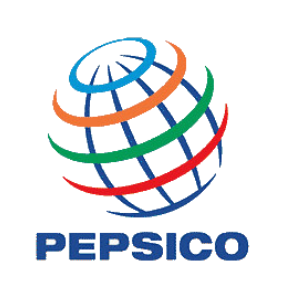
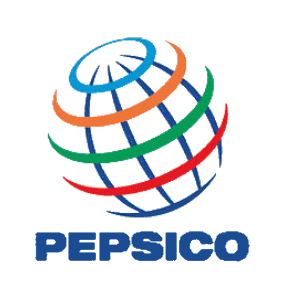
100%

Changed region(s): [[0.12, 0.75, 0.84, 0.87]]

diff --git a/lib/pages/home_page.dart b/lib/pages/home_page.dart
@@ -1,7 +1,7 @@
 import 'package:flutter/material.dart';
-import 'package:flutter_bloc/model/marca_model.dart';
-import 'package:flutter_bloc/model/pessoa_model.dart';
-import '../widgets/thumb_widget.dart';
+import '../model/meu_bloc.dart';
+import '../model/marca_model.dart';
+import '../widgets/thumb_grid_widget.dart';
 
 class HomePage extends StatefulWidget {
   @override
@@ -10,6 +10,8 @@ class HomePage extends StatefulWidget {
 
 class _HomePageState extends State<HomePage> {
 
+  MeuBlocModel bloc = MeuBlocModel();
+  int total = 0;
 //  PessoaModel pessoa = new PessoaModel();
 //  List<PessoaModel> _lista;
   MarcaModel marca = new MarcaModel();
@@ -25,42 +27,24 @@ class _HomePageState extends State<HomePage> {
     _lista = marca.buscarLista;
   }
 
-
   @override
   Widget build(BuildContext context) {
-    return Scaffold(
-      appBar: AppBar(
-        title: Text("HOME"),
-      ),
-      body: ListView.builder(
-              itemCount: _lista.length,
-              itemBuilder: (BuildContext context, int index) {
-                return _card(_lista[index]);
-              },
-          ),
-    );
-  }
-
-  _card(objeto){
-    return Card(
-      child: Padding(
-        padding: EdgeInsets.all(5),
-          child: ListTile(
-            title: Text(objeto.nome),
-            leading: CircleAvatar(
-              radius: 30,
-              child: Padding(
-                padding: EdgeInsets.all(5.0),
-                child: FittedBox(
-                  child: Image(image: AssetImage("assets/imagens/${objeto.imagem}"),),
-                ),
-              ),
+    return StreamBuilder(
+        stream: bloc.output,
+        builder: (context, snapshot) {
+          return Scaffold(
+            appBar: AppBar(
+              title: Text("HOME - ${bloc.total}"),
             ),
-            subtitle: Text("US\$ ${objeto.fortuna.toString()} bilhões"),
-          ),
-      ),
-
+            body: GridView.builder(
+              gridDelegate: new SliverGridDelegateWithFixedCrossAxisCount(crossAxisCount:  3),
+              itemCount: _lista.length,
+              itemBuilder: (context, index) {
+                return ThumbGrid( objeto: _lista[index], bloc: bloc,);
+              },
+            ),
+          );
+        },
     );
   }
-
 }

diff --git a/lib/widgets/thumb_grid_widget.dart b/lib/widgets/thumb_grid_widget.dart
@@ -1,0 +1,66 @@
+import 'package:flutter/material.dart';
+import 'package:flutter_bloc/model/marca_model.dart';
+import 'package:flutter_bloc/model/meu_bloc.dart';
+
+
+class ThumbGrid extends StatefulWidget {
+
+  MarcaModel objeto;
+  MeuBlocModel bloc = MeuBlocModel();
+  ThumbGrid({this.objeto , this.bloc});
+
+  @override
+  _ThumbGridState createState() => _ThumbGridState();
+}
+
+class _ThumbGridState extends State<ThumbGrid> {
+
+  bool _selecionado = false;
+
+
+  @override
+  Widget build(BuildContext context) {
+
+    return GestureDetector(
+      child: Padding(
+        padding: EdgeInsets.all(7),
+        child: Container(
+          decoration: new BoxDecoration(
+            color: ( _selecionado ) ? Colors.green : Colors.white ,
+          ),
+          child: Column(
+            crossAxisAlignment: CrossAxisAlignment.center,
+            mainAxisAlignment: MainAxisAlignment.center,
+            children: [
+              CircleAvatar(
+                radius: 30,
+                child: Padding(
+                  padding: EdgeInsets.all(5.0),
+                  child: FittedBox(
+                  //   fit: BoxFit.scaleDown,
+                    child: Image(
+                      image: AssetImage("assets/imagens/${widget.objeto.imagem}"),
+                      height: 50,
+                      width: 50,
+                    ),
+                  ),
+                ),
+              ),
+              Text("US\$ ${widget.objeto.fortuna.toString()} bilhões" , overflow: TextOverflow.ellipsis,),
+            ],
+          ),
+        ),
+      ),
+      onLongPressUp: () { _inverter(); },
+      onTap: () { _inverter(); },
+    );
+  }
+
+  _inverter(){
+
+    setState(() {
+      _selecionado = !_selecionado;
+    });
+    widget.bloc.contador(_selecionado);
+  }
+}

diff --git a/lib/model/marca_model.dart b/lib/model/marca_model.dart
@@ -17,8 +17,11 @@ class MarcaModel{
       new MarcaModel(nome:'Mercedes-Benz' ,fortuna: 49.26 , imagem: "mercedez.png") ,
       new MarcaModel(nome:"McDonald's" ,fortuna:  42.8 , imagem: "mc.png") ,
       new MarcaModel(nome:'Disney ' ,fortuna: 40.77 , imagem: "disney.png") ,
-      new MarcaModel(nome:'Pepsico' ,fortuna: 39 , imagem: "pesico.png") ,
-      new MarcaModel(nome:'GM' ,fortuna: 38.67 , imagem: "gm.png") ,
+      new MarcaModel(nome:'Pepsico' ,fortuna: 39 , imagem: "pepsico.png") ,
+      new MarcaModel(nome:'GM' ,fortuna: 38.67 , imagem: "gm.png"),
+      new MarcaModel(nome:'Nike' ,fortuna: 37.5 , imagem: "nike.png"),
+      new MarcaModel(nome:'Walmart' ,fortuna: 37 , imagem: "walmart.png"),
+      new MarcaModel(nome:'Huawei' ,fortuna: 36.5 , imagem: "huawei.png"),
 
     ];
   }

diff --git a/lib/model/meu_bloc.dart b/lib/model/meu_bloc.dart
@@ -1,0 +1,21 @@
+import 'dart:async';
+
+class MeuBlocModel {
+
+  int total = 0;
+  bool flag;
+
+  final StreamController _streamController = StreamController();
+  Sink get input => _streamController.sink;
+  Stream get output => _streamController.stream;
+
+  contador(flag){
+    if(flag){
+      total++;
+    }else{
+      total--;
+    }
+    input.add(total);
+  }
+
+}

diff --git a/lib/main.dart b/lib/main.dart
@@ -11,7 +11,7 @@ class MyApp extends StatelessWidget {
     return MaterialApp(
       title: 'Flutter Demo',
       theme: ThemeData(
-        primarySwatch: Colors.blue,
+        primarySwatch: Colors.amber,
         visualDensity: VisualDensity.adaptivePlatformDensity,
       ),
       home: HomePage(),
